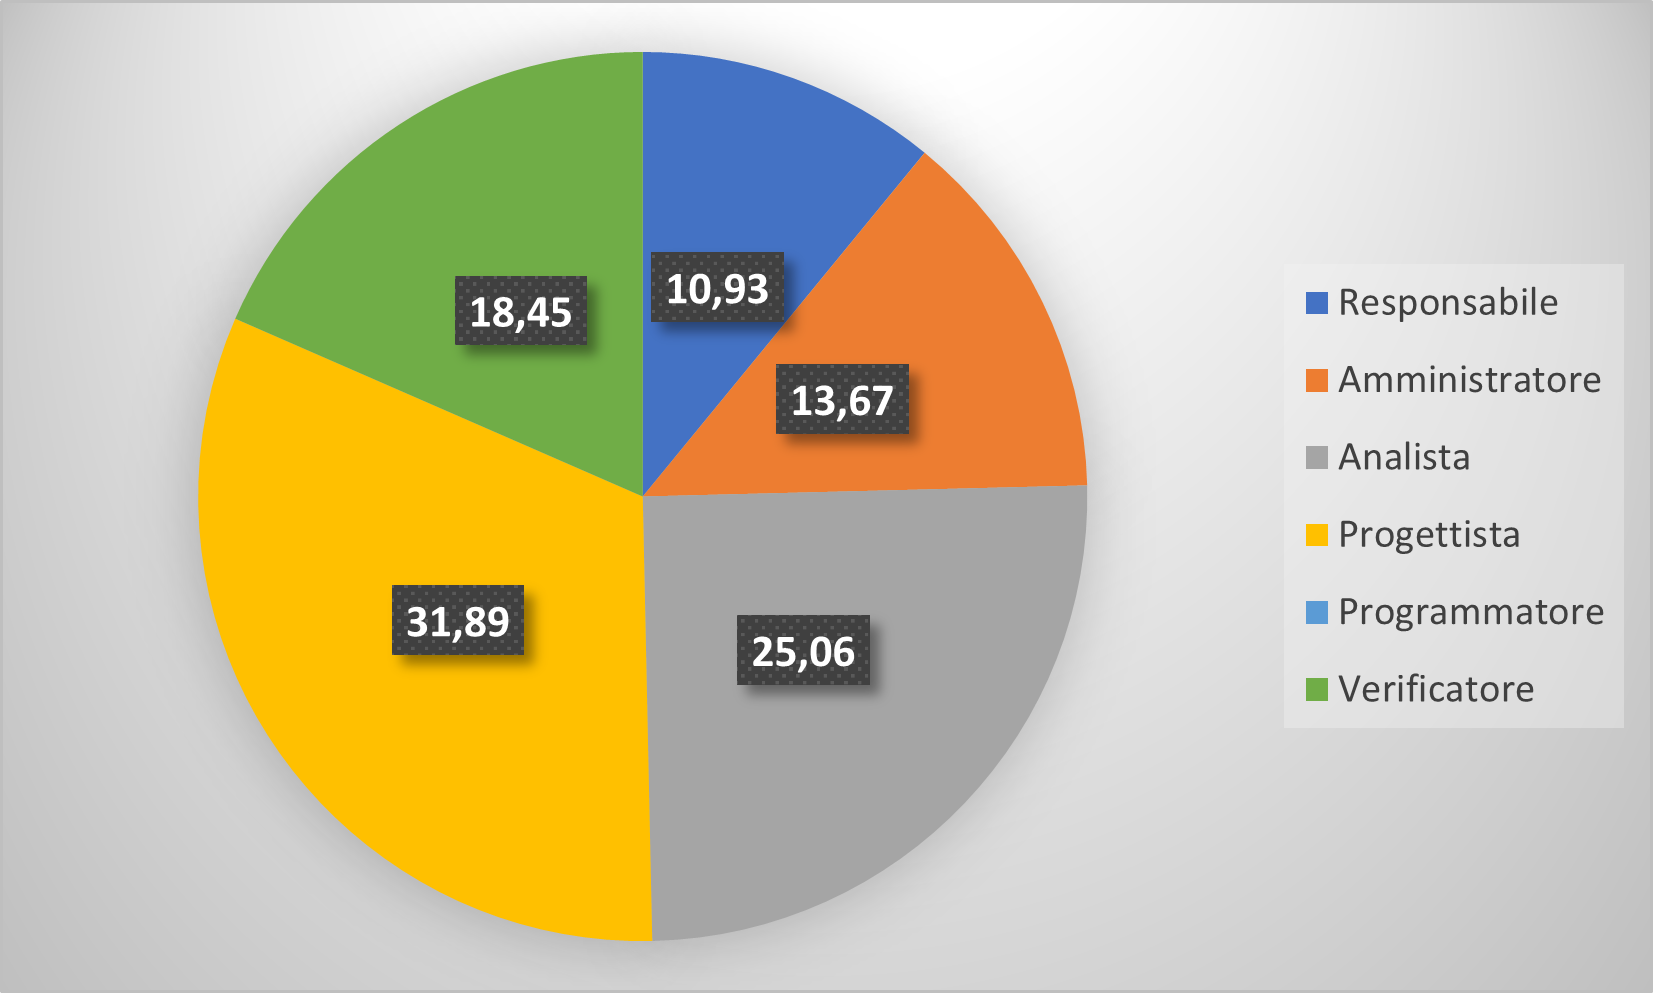
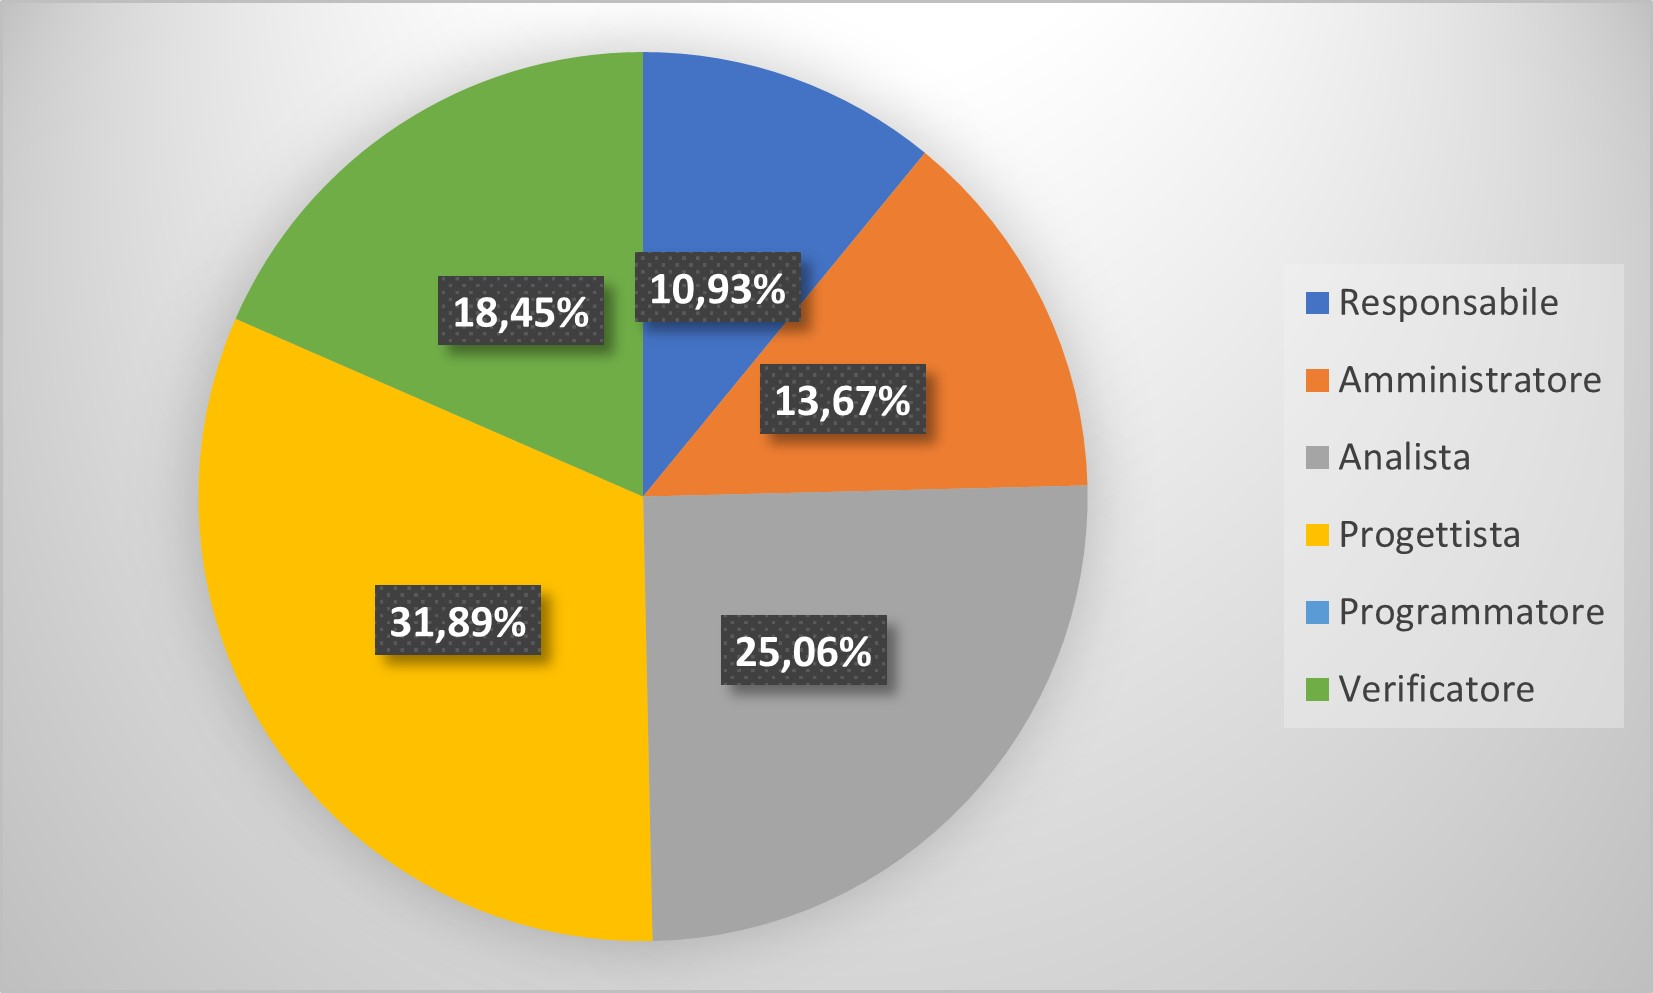
Preventivo quarta milestone, fix torta3.2.jpg

diff --git a/src/documenti/esterni/PdP/contenuti/preventivo.tex b/src/documenti/esterni/PdP/contenuti/preventivo.tex
@@ -33,12 +33,12 @@ pianificati sono:
 
 \begin{figure}[H]
     \includegraphics[width=1.0\textwidth]{Istogramma1.jpg}
-    \caption{Istogramma della distribuzione delle ore} 
+    \caption{Istogramma della distribuzione delle ore}
 \end{figure}
 
 \begin{figure}[H]
     \includegraphics[width=1.0\textwidth]{Torta1.1.jpg}
-    \caption{Grafico a torta della distribuzione delle ore} 
+    \caption{Grafico a torta della distribuzione delle ore}
 \end{figure}
 
 \newpage
@@ -62,7 +62,7 @@ pianificati sono:
 
 \begin{figure}[H]
     \includegraphics[width=1.0\textwidth]{Torta1.2.jpg}
-    \caption{Grafico a torta della distribuzione dei costi} 
+    \caption{Grafico a torta della distribuzione dei costi}
 \end{figure}
 
 \newpage
@@ -98,12 +98,12 @@ pianificati sono:
 
 \begin{figure}[H]
     \includegraphics[width=1.0\textwidth]{Istogramma2.jpg}
-    \caption{Istogramma della distribuzione delle ore} 
+    \caption{Istogramma della distribuzione delle ore}
 \end{figure}
 
 \begin{figure}[H]
     \includegraphics[width=1.0\textwidth]{Torta2.1.jpg}
-    \caption{Grafico a torta della distribuzione delle ore} 
+    \caption{Grafico a torta della distribuzione delle ore}
 \end{figure}
 
 \newpage
@@ -127,7 +127,7 @@ pianificati sono:
 
 \begin{figure}[H]
     \includegraphics[width=1.0\textwidth]{Torta2.2.jpg}
-    \caption{Grafico a torta della distribuzione dei costi} 
+    \caption{Grafico a torta della distribuzione dei costi}
 \end{figure}
 
 
@@ -166,12 +166,12 @@ pianificati sono:
 
 \begin{figure}[H]
     \includegraphics[width=1.0\textwidth]{Istogramma3.jpg}
-    \caption{Istogramma della distribuzione delle ore} 
+    \caption{Istogramma della distribuzione delle ore}
 \end{figure}
 
 \begin{figure}[H]
     \includegraphics[width=1.0\textwidth]{Torta3.1.jpg}
-    \caption{Grafico a torta della distribuzione delle ore} 
+    \caption{Grafico a torta della distribuzione delle ore}
 \end{figure}
 
 \newpage
@@ -195,8 +195,77 @@ pianificati sono:
 
 \begin{figure}[H]
     \includegraphics[width=1.0\textwidth]{Torta3.2.jpg}
-    \caption{Grafico a torta della distribuzione dei costi} 
+    \caption{Grafico a torta della distribuzione dei costi}
 \end{figure}
+
+
+
+\newpage
+\subsection{Quarto periodo}
+
+In questa fase i ruoli da ricoprire per portare a termine gli obiettivi pianificati sono:
+\begin{itemize}
+    \item \textit{Responsabile};
+    \item \textit{Amministratore};
+    \item \textit{Analista};
+    \item \textit{Progettista};
+    \item \textit{Programmatore};
+    \item \textit{Verificatore}.
+\end{itemize}
+
+\subsubsection{Preventivo orario}
+
+\begin{table}[H]
+    \centering
+    \begin{tabular}{|l|c|c|c|c|c|c|c|}
+    \hline
+    \textbf{Membro} & \multicolumn{1}{l|}{\textbf{RE}} & \multicolumn{1}{l|}{\textbf{AM}} & \multicolumn{1}{l|}{\textbf{AN}} & \multicolumn{1}{l|}{\textbf{PT}} & \multicolumn{1}{l|}{\textbf{PR}} & \multicolumn{1}{l|}{\textbf{VE}} & \multicolumn{1}{l|}{\textbf{Totale ore persona}} \\ \hline
+    \textit{Marco Mazzucato}  & - & -   & 2     & 4  & 4   & 2    & 12     \\ \hline
+    \textit{Marco Mamprin}    & - & 1   & 2     & 4  & 5   & 3    & 15     \\ \hline
+    \textit{Marko Vukovic}    & - & -   & 1     & 4  & 4   & 4    & 13     \\ \hline
+    \textit{Mattia Zanellato} & 4 & 4   & 1.5   & 4  & -   & 4    & 17.5   \\ \hline
+    \textit{Emanuele Pase}    & - & -   & -     & 3  & 4   & 3    & 10     \\ \hline
+    \textit{Riccardo Contin}  & - & 3   & 1     & 3  & -   & 3.5  & 10.5   \\ \hline
+    \textit{Lorenzo Onelia}   & - & 3   & 3     & 3  & -   & 3    & 12     \\ \hline
+    \textbf{Totale ore ruolo} & 4 & 11  & 10.5  & 25 & 17  & 22.5 & 90     \\ \hline
+    \end{tabular}
+    \caption{Distribuzione delle ore per la quarta milestone}
+\end{table}
+
+\begin{figure}[H]
+    \includegraphics[width=1.0\textwidth]{Istogramma4.jpg}
+    \caption{Istogramma della distribuzione delle ore}
+\end{figure}
+
+\begin{figure}[H]
+    \includegraphics[width=1.0\textwidth]{Torta4.1.jpg}
+    \caption{Grafico a torta della distribuzione delle ore}
+\end{figure}
+
+\newpage
+\subsubsection{Preventivo economico}
+
+\begin{table}[H]
+    \centering
+    \begin{tabular}{|l|c|c|}
+    \hline
+    \textbf{Ruolo} & \multicolumn{1}{l|}{\textbf{Ore}} & \multicolumn{1}{l|}{\textbf{Costo (€)}} \\ \hline
+    \textit{Responsabile}   & 4    & 120     \\ \hline
+    \textit{Amministratore} & 11   & 220     \\ \hline
+    \textit{Analista}       & 10.5 & 262.5   \\ \hline
+    \textit{Progettista}    & 25   & 625     \\ \hline
+    \textit{Programmatore}  & 17   & 255     \\ \hline
+    \textit{Verificatore}   & 22.5 & 337.5   \\ \hline
+    \textbf{Totale}         & 90   & 1820    \\ \hline
+    \end{tabular}
+    \caption{Prospetto dei costi per la quarta milestone}
+\end{table}
+
+\begin{figure}[H]
+    \includegraphics[width=1.0\textwidth]{Torta4.2.jpg}
+    \caption{Grafico a torta della distribuzione dei costi}
+\end{figure}
+
 
 \section{Verso la PB}
 

diff --git a/src/documenti/esterni/PdP/contenuti/modifiche.tex b/src/documenti/esterni/PdP/contenuti/modifiche.tex
@@ -8,8 +8,9 @@
   \begin{tabular}{|p{2cm}|p{2cm}|p{4cm}|p{5cm}|}
     \hline
     \textbf{Versione} & \textbf{Data} & \textbf{Autore/Verificatore} & \textbf{Modifica}     \\ \hline
-    v0.0.7            & 04/02/2022    & \aCapo{Emanuele Pase\\Marco Mamprin}                               & Modifica sezione "Pianificazione" \\ \hline   
-    v0.0.6            & 13/01/2022    & \aCapo{Emanuele Pase\\Marco Mamprin\\Riccardo Contin} & Aggiunto secondo "Consuntivo" e terzo "Preventivo" \\ \hline     
+    v0.0.9            & 08/02/2022    & \aCapo{Mattia Zanellato\\}                            & Aggiunto quarto "Preventivo" \\ \hline
+    v0.0.7            & 04/02/2022    & \aCapo{Emanuele Pase\\Marco Mamprin}                  & Modifica sezione "Pianificazione" \\ \hline
+    v0.0.6            & 13/01/2022    & \aCapo{Emanuele Pase\\Marco Mamprin\\Riccardo Contin} & Aggiunto secondo "Consuntivo" e terzo "Preventivo" \\ \hline
     v0.0.5            & 07/01/2022    & \aCapo{Riccardo Contin\\Lorenzo Onelia}               & Aggiunta "Introduzione" \\ \hline
     v0.0.4            & 28/12/2021    & \aCapo{Riccardo Contin\\Lorenzo Onelia}               & Aggiunto primo "Consuntivo" e secondo "Preventivo" \\ \hline
     v0.0.3            & 15/12/2021    & \aCapo{Riccardo Contin\\Marco Mamprin}                & Aggiunto primo "Preventivo" \\ \hline
